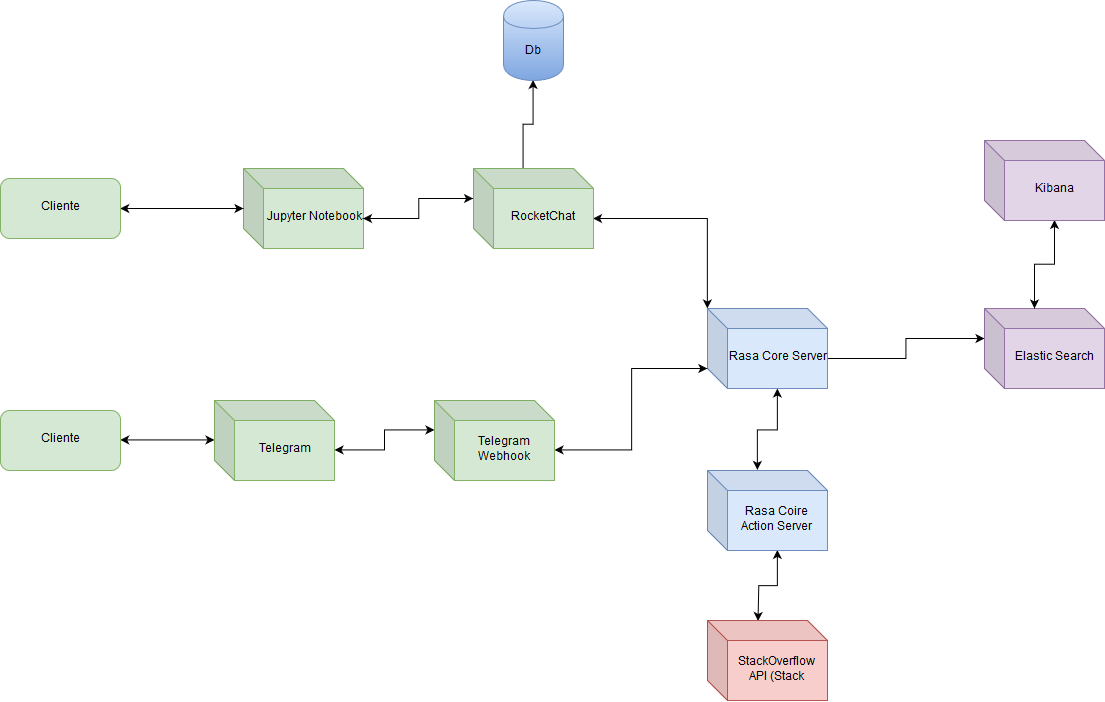
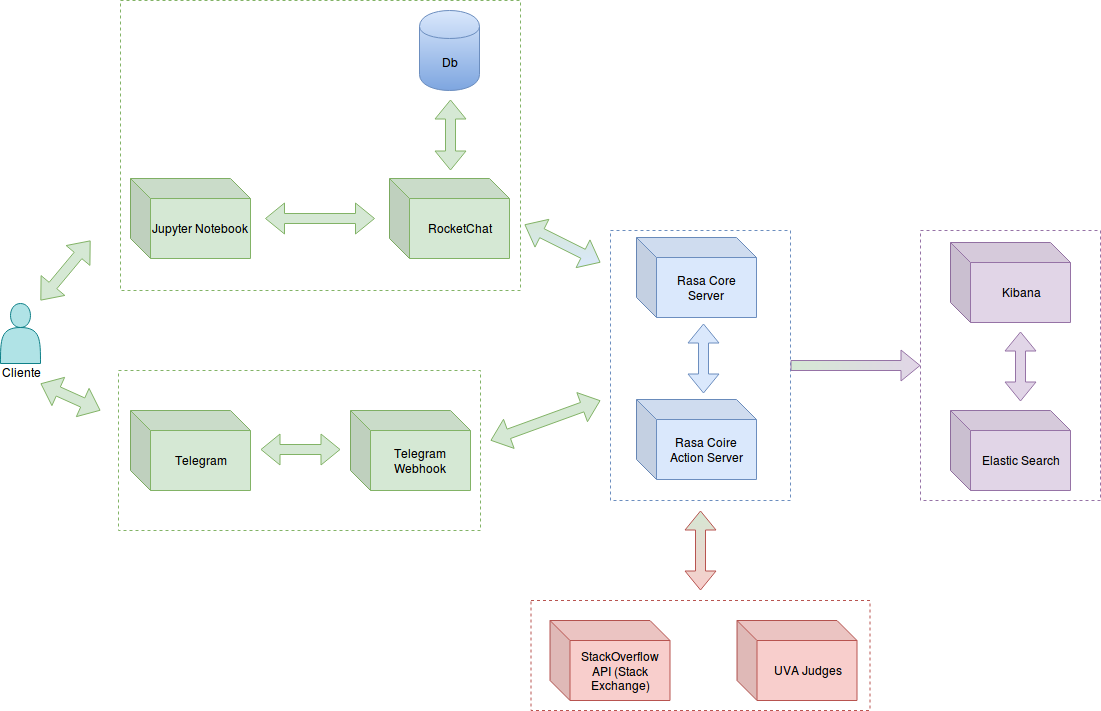
#313 - Adicionando novo diagrama de fluxo e atualizando as ferramentas.

Changed region(s): [[0.0, 0.0, 0.8338, 1.0], [0.8647, 0.1795, 1.0, 0.7179]]

diff --git a/docs/_posts/2019-03-29-documento-de-arquitetura.md b/docs/_posts/2019-03-29-documento-de-arquitetura.md
@@ -10,6 +10,7 @@ category: Projeto
 |28/03/2019| 1.0|Criação do documento e preenchendo os tópicos|Gabriela, André, Pedro, Iuri, Gustavo|
 |09/04/2019|1.1|Adicionando tópicos 2 e 5 e arrumando a maneira de apresentar a arquitetura|Guilherme Marques|
 |25/04/2019|1.2|Criação do diagrama de pacotes, alterações no diagrama de casos de uso e revisão ortográfica.| Gabriela, Iuri, Pedro|
+|24/05/2019| 1.3 | Alteração do diagrama de fluxo e adição das ferramentas Rancher e Nginx | Guilherme Marques|
 
 # 1. Introdução
 ### 1.1 Finalidade
@@ -68,6 +69,8 @@ O ChatBot Aix será uma ferramente que irá utilizar várias ferramentas como in
 * Travis CI: Ferramenta utilizada para integração continua.
 * ElasticSearch: Ferramenta de análise de texto.
 * Kibana: Plugin do ElasticSearch para a visualização dos dados obtidos pelo mesmo.
+* Rancher: Gerenciador e orquestrador de containers Docker.
+* Nginx: Ferramenta de balanceamento de carga, reverse proxy e 
 
 <p align="justify">
 O sistema deve garantir a privacidade dos dados inseridos em seu banco de dados, ele deve conseguir responder às requisições em poucos segundos e ter alta disponibilidade, aproximandamente 99% do tempo. Ela também deverá atender aos requisitos não funcionais, como disponibilidade, segurança, usabilidade, escalabilidade,e garantir a manutenibilidade do sistema.
